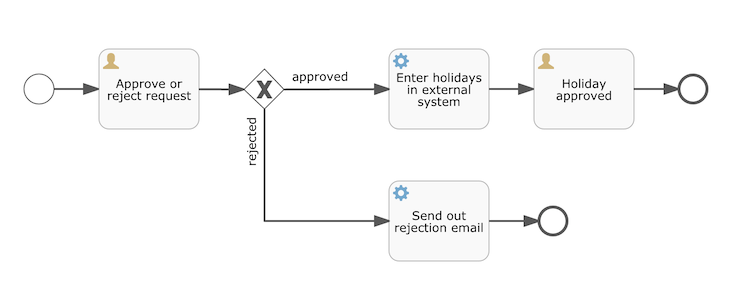
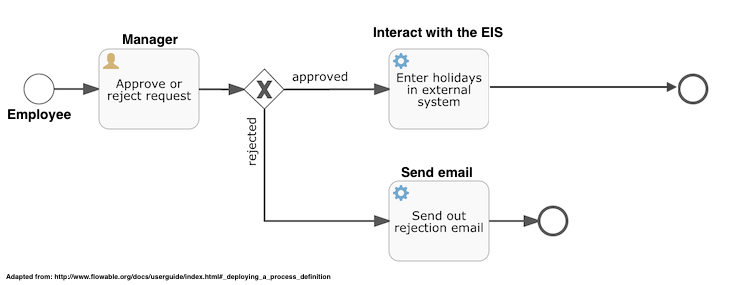
demo code final

diff --git a/src/main/java/org/flowable/HolidayRequest.java b/src/main/java/org/flowable/HolidayRequest.java
@@ -4,7 +4,6 @@ import org.flowable.engine.*;
 import org.flowable.engine.history.HistoricActivityInstance;
 import org.flowable.engine.impl.cfg.StandaloneProcessEngineConfiguration;
 import org.flowable.engine.repository.Deployment;
-import org.flowable.engine.repository.ProcessDefinition;
 import org.flowable.engine.runtime.ProcessInstance;
 import org.flowable.engine.task.Task;
 
@@ -15,31 +14,55 @@ import java.util.Scanner;
 
 public class HolidayRequest {
 
-    public static void main(String[] args) {
 
-        // configuring process engine
+    private static final String PROCESS_DEFINITION_KEY = "holidayRequest";
+
+    private static ProcessEngine processEngine;
+    private static ROLE currentRole;
+    private static Scanner scanner = new Scanner(System.in);
+
+    public static void main(String[] args) {
+        initializeEngine();
+        deployResourceAsProcess("holiday-request.bpmn20.xml");
+        while( choseRole() ) {
+            switch (currentRole) {
+                case MANAGER:  beAManager(); break;
+                case EMPLOYEE: beAnEmployee(); break;
+            }
+        }
+        metrics();
+        ProcessEngines.destroy();
+    }
+
+    private enum ROLE { EMPLOYEE, MANAGER; }
+
+    private static void initializeEngine() {
         ProcessEngineConfiguration cfg = new StandaloneProcessEngineConfiguration()
                 .setJdbcUrl("jdbc:h2:mem:flowable;DB_CLOSE_DELAY=-1")
                 .setJdbcUsername("sa")
                 .setJdbcPassword("")
                 .setJdbcDriver("org.h2.Driver")
                 .setDatabaseSchemaUpdate(ProcessEngineConfiguration.DB_SCHEMA_UPDATE_TRUE);
+        processEngine = cfg.buildProcessEngine();
+    }
 
-        ProcessEngine processEngine = cfg.buildProcessEngine();
-
-        // Deploying a business process modelled in BPMN
+    private static void deployResourceAsProcess(String resourceName) {
         RepositoryService repositoryService = processEngine.getRepositoryService();
-        Deployment deployment = repositoryService.createDeployment()
-                .addClasspathResource("holiday-request.bpmn20.xml")
+        repositoryService.createDeployment()
+                .addClasspathResource(resourceName)
                 .deploy();
+    }
 
-        ProcessDefinition processDefinition = repositoryService.createProcessDefinitionQuery()
-                .deploymentId(deployment.getId())
-                .singleResult();
-        System.out.println("Found process definition : " + processDefinition.getName());
+    private static boolean choseRole() {
+        try {
+            System.out.println("Are you an EMPLOYEE or a MANAGER? (or STOP)");
+            currentRole = ROLE.valueOf(scanner.nextLine());
+            return true;
+        } catch (Exception e) { return false; }
+    }
 
-        // Collecting user input
-        System.out.println("/**\n * Acting as an employee\n **/");
+    private static void beAnEmployee() {
+        System.out.println("/**\n * Acting as an EMPLOYEE\n **/");
         Scanner scanner= new Scanner(System.in);
         System.out.println("Who are you?");
         String employee = scanner.nextLine();
@@ -48,25 +71,28 @@ public class HolidayRequest {
         System.out.println("Why do you need them?");
         String description = scanner.nextLine();
 
-        // Starting a process instance
         RuntimeService runtimeService = processEngine.getRuntimeService();
         Map<String, Object> variables = new HashMap<String, Object>();
         variables.put("employee", employee);
         variables.put("nrOfHolidays", nrOfHolidays);
         variables.put("description", description);
-        ProcessInstance processInstance = runtimeService.startProcessInstanceByKey("holidayRequest", variables);
+        ProcessInstance inst = runtimeService.startProcessInstanceByKey(PROCESS_DEFINITION_KEY, variables);
+        System.out.println("Process started, #" + inst.getId());
+    }
 
-
-        // Listing tasks waiting for approval by managers
-        System.out.println("\n\n/**\n * Acting as a team manager\n **/");
+    private static void beAManager() {
+        System.out.println("\n\n/**\n * Acting as a team MANAGER\n **/");
         TaskService taskService = processEngine.getTaskService();
         List<Task> tasks = taskService.createTaskQuery().taskCandidateGroup("managers").list();
-        System.out.println("You have " + tasks.size() + " tasks:");
-        for (int i=0; i<tasks.size(); i++) {
-            System.out.println((i+1) + ") " + tasks.get(i).getName());
+        if (tasks.isEmpty()) {
+            System.out.println("Nothing to do!");
+            return;
         }
 
-        // Interacting with a given task
+        System.out.println("You have " + tasks.size() + " tasks:");
+        for (int i=0; i<tasks.size(); i++) {
+            System.out.println((i+1) + ") " + tasks.get(i).getName() + " #" + tasks.get(i).getProcessInstanceId());
+        }
         System.out.println("Which task would you like to complete?");
         int taskIndex = Integer.valueOf(scanner.nextLine());
         Task task = tasks.get(taskIndex - 1);
@@ -74,23 +100,32 @@ public class HolidayRequest {
         System.out.println(processVariables.get("employee") + " wants " +
                 processVariables.get("nrOfHolidays") + " of holidays. Do you approve this? (y/n)");
         boolean approved = scanner.nextLine().toLowerCase().equals("y");
-        variables = new HashMap<String, Object>();
+        Map<String, Object> variables = new HashMap<String, Object>();
         variables.put("approved", approved);
         taskService.complete(task.getId(), variables);
+    }
 
-        // Historis activities
+
+    private static void metrics() {
         System.out.println("\n\n/**\n * System Metrics\n **/\n");
         HistoryService historyService = processEngine.getHistoryService();
-        List<HistoricActivityInstance> activities =
-                historyService.createHistoricActivityInstanceQuery()
-                        .processInstanceId(processInstance.getId())
-                        .finished()
-                        .orderByHistoricActivityInstanceEndTime().asc()
-                        .list();
+        List<ProcessInstance> instances = processEngine.getRuntimeService()
+                .createProcessInstanceQuery()
+                .list();
 
-        for (HistoricActivityInstance activity : activities) {
-            System.out.println(activity.getActivityId() + " took "
-                    + activity.getDurationInMillis() + " milliseconds");
+        for(ProcessInstance processInstance: instances) {
+            System.out.println("Metrics for process instance" + processInstance.getId());
+            List<HistoricActivityInstance> activities =
+                    historyService.createHistoricActivityInstanceQuery()
+                            .processInstanceId(processInstance.getId())
+                            .orderByHistoricActivityInstanceEndTime().asc()
+                            .list();
+            for (HistoricActivityInstance activity : activities) {
+                System.out.println(activity.getActivityId() + " took "
+                        + activity.getDurationInMillis() + " milliseconds");
+            }
+            System.out.println("");
         }
     }
+
 }

diff --git a/README.md b/README.md
@@ -6,18 +6,213 @@
     * [http://www.flowable.org/docs/userguide/index.html](http://www.flowable.org/docs/userguide/index.html)
   
   
- ## Command line application
+## My Very First Business Process
+
+We consider a simple business process to support vacation approval. 
+
+<p align="center">
+  <img src="https://raw.githubusercontent.com/polytechnice-si/5A-BPM-Demo/master/docs/process.png" />
+</p>
+
+__English version__: an employee starts a process instance by sending a request containing her name, the number of days requested and a reason associated to this request. A manager can then validate a pending request. If the request is legit, the system transfers the request to the Enterprise Information System which log the vacations. If the manager rejects the request, a rejection email is sent to the employee. The BPMN implementation is available in the file [`holiday-request.bpmn20.xml`](https://github.com/polytechnice-si/5A-BPM-Demo/blob/master/src/main/resources/holiday-request.bpmn20.xml).
  
- ### Compiling and Running the process
  
+## Creating an Embedded App
+
+In this section, we will embed a process engine in a regular Java application. We use Maven to support the project definition. 
+
+
+### Project definition
+
+The [`pom.xml`](https://github.com/polytechnice-si/5A-BPM-Demo/blob/master/pom.xml) basically loads the process engine (Flowable) and an in-memory database engine (h2)
+
+```xml
+<dependency>
+  <groupId>org.flowable</groupId>
+  <artifactId>flowable-engine</artifactId>
+  <version>6.1.2</version>
+</dependency>
+<dependency>
+  <groupId>com.h2database</groupId>
+  <artifactId>h2</artifactId>
+  <version>1.3.176</version>
+</dependency>
+```
+
+We will use the classical Maven structure for source code: `src/main/java` for java classes and `src/main/resources` to store resource files (_e.g._, logging properties and process definitions). 
+ 
+### Application structure
+
+The application is simple. We start by initialising the engine and deploying the holiday process. Then, the user can chose if she wants to act as a _manager_ or an _employee_, and acts consequently. When the program is terminated, it will display some metrics about the remaining process instances.
+
+```java
+public static void main(String[] args) {
+  initializeEngine();
+  deployResourceAsProcess("holiday-request.bpmn20.xml");
+  while( choseRole() ) {
+    switch (currentRole) {
+      case MANAGER:  beAManager(); break;
+      case EMPLOYEE: beAnEmployee(); break;
+    }
+  }
+  metrics();
+  ProcessEngines.destroy();
+}
+``` 
+
+### Engine initialisation
+
+The engine initialisation is a purely technical code. Based on a `ProcessConfiguration` bound to an H2 embedded database, we create a `ProcessEngine`.
+
+```java
+private static void initializeEngine() {
+  ProcessEngineConfiguration cfg = new StandaloneProcessEngineConfiguration()
+    .setJdbcUrl("jdbc:h2:mem:flowable;DB_CLOSE_DELAY=-1")
+    .setJdbcUsername("sa")
+    .setJdbcPassword("")
+    .setJdbcDriver("org.h2.Driver")
+    .setDatabaseSchemaUpdate(ProcessEngineConfiguration.DB_SCHEMA_UPDATE_TRUE);
+  processEngine = cfg.buildProcessEngine();
+}
+```
+
+### Deploying a process definition
+
+We request the `RepositoryService`, and deploy the process definition as a resource (the file is located in `src/main/resources`).
+
+```java
+private static void deployResourceAsProcess(String resourceName) {
+  RepositoryService repositoryService = processEngine.getRepositoryService();
+  repositoryService.createDeployment()
+    .addClasspathResource(resourceName)
+    .deploy();
+}
+```
+
+### Instantiating a Process
+
+
+When acting as an _Employee_, we trigger a new process instantiation. We read from the CLI the needed information to trigger a request, and then asks the `RuntimeService` to create an instance of the `holidayRequest` process using these data.
+
+```
+private static void beAnEmployee() {
+  // Reading employee name, numberOfHolidays and description from the command line
+  
+  RuntimeService runtimeService = processEngine.getRuntimeService();
+  Map<String, Object> variables = new HashMap<String, Object>();
+  variables.put("employee", employee);
+  variables.put("nrOfHolidays", nrOfHolidays);
+  variables.put("description", description);
+  ProcessInstance inst = runtimeService.startProcessInstanceByKey("holidayRequest", variables);
+  System.out.println("Process started, #" + inst.getId());
+}
+```
+
+### Retrieving Pending User Tasks
+
+We asks the `TaskService` to send the list of tasks waiting for an action from the _managers_ group. A task is assigned to a given group using the `flowable:candidateGroups="managers"` attribute in the BPMN definition.
+
+```java
+  TaskService taskService = processEngine.getTaskService();
+  List<Task> tasks = taskService.createTaskQuery().taskCandidateGroup("managers").list();
+  System.out.println("You have " + tasks.size() + " tasks:");
+  for (int i=0; i<tasks.size(); i++) {
+    System.out.println(i + ") " + tasks.get(i).getName() + " #" + tasks.get(i).getProcessInstanceId());
+  }
+```
+
+### Interact With a Task
+
+Considering a given task, we can access to the variables associated to it (here the holiday request). We complete the task by calling the `complete` method on the `TaskService`, with the task identifier and the variable produced by this human task (here the approval or rejection of the request).
+
+```java
+  Task task = tasks.get(taskIndex);
+  Map<String, Object> processVariables = taskService.getVariables(task.getId());
+  
+  System.out.println(processVariables.get("employee") + " wants " +
+    processVariables.get("nrOfHolidays") + " of holidays. Do you approve this? (y/n)");
+  boolean approved = scanner.nextLine().toLowerCase().equals("y");
+  
+  Map<String, Object> variables = new HashMap<String, Object>();
+  variables.put("approved", approved);
+  taskService.complete(task.getId(), variables);
+```
+
+### Implementing service task
+
+By using the `flowable:class` attribute, one can declare the Java class to be triggered to process the task automatically. In our example, we simply print something on the standard output.
+
+```java
+public class SendRejectionMail implements JavaDelegate {
+
+  public void execute(DelegateExecution execution) {
+    System.out.println("Sending rejection email for " + execution.getVariable("employee"));
+  }
+  
+}
+```
+
+### Compiling and Running the process
+ 
+ 
+The POM is configured to start the `HolidayRequest` class by default. We simply asks maven to compile (`package`) and then execute the program (`exec:java`). 
 ```
 azrael:5A-BPM-Demo mosser$ mvn -q package exec:java
 ``` 
 
-## Using the REST server
+## Using the default REST server
 
-## Staring the server
+We rely on the Docker image provided by Flowable. To start the REST server, simply start a container bound to the official image. The default user is named `kermit`, and the password os also `kermit`.
 
 ```
-azrael:5A-BPM-Demo mosser$ docker run -p8080:8080 flowable/flowable-rest
+$ docker run -p8080:8080 flowable/flowable-rest
 ```
+
+To check engine availability, send a GET request to a basic route and check the response.
+
+```
+$ curl --user kermit:kermit http://localhost:8080/flowable-rest/service/management/engine 
+```
+
+### Interacting with the server
+
+The server requests JSON data, and will answer JSON data. Consider the `json_pp` tool to pretty print the responses received from the server.
+
+To deploy a process, we use the `-F` parameter to send a file content as the request body to the deployments resource.
+
+```
+$ curl --user kermit:kermit -F "file=@./src/main/resources/holiday-request.bpmn20.xml" http://localhost:8080/flowable-rest/service/repository/deployments
+```
+
+
+To list the available processes:
+
+```
+$ curl --user kermit:kermit http://localhost:8080/flowable-rest/service/repository/process-definitions
+```
+
+Instantiating a process:
+
+```
+$ curl --user kermit:kermit -H "Content-Type: application/json" -X POST -d '{ "processDefinitionKey":"holidayRequest", "variables": [ { "name":"employee", "value": "John Doe" }, { "name":"nrOfHolidays", "value": 7 }]}' http://localhost:8080/flowable-rest/service/runtime/process-instances
+```
+
+Retrieving pending tasks for _managers_
+
+```
+$ curl --user kermit:kermit -H "Content-Type: application/json" -X POST -d '{ "candidateGroup" : "managers" }' http://localhost:8080/flowable-rest/service/query/tasks
+```
+
+Completing a task (where `ID` is replaced by a valid task identifier):
+
+```
+$ curl --user kermit:kermit -H "Content-Type: application/json" -X POST -d '{ "action" : "complete", "variables" : [ { "name" : "approved", "value" : true} ]  }' http://localhost:8080/flowable-rest/service/runtime/tasks/ID
+```
+
+The task ends in error, as the custom class are not available in the server.
+
+## Specialising the docker image
+
+
+We simply need to create a new docker image that contains our custom class in the execution context of the process engine.
+  
